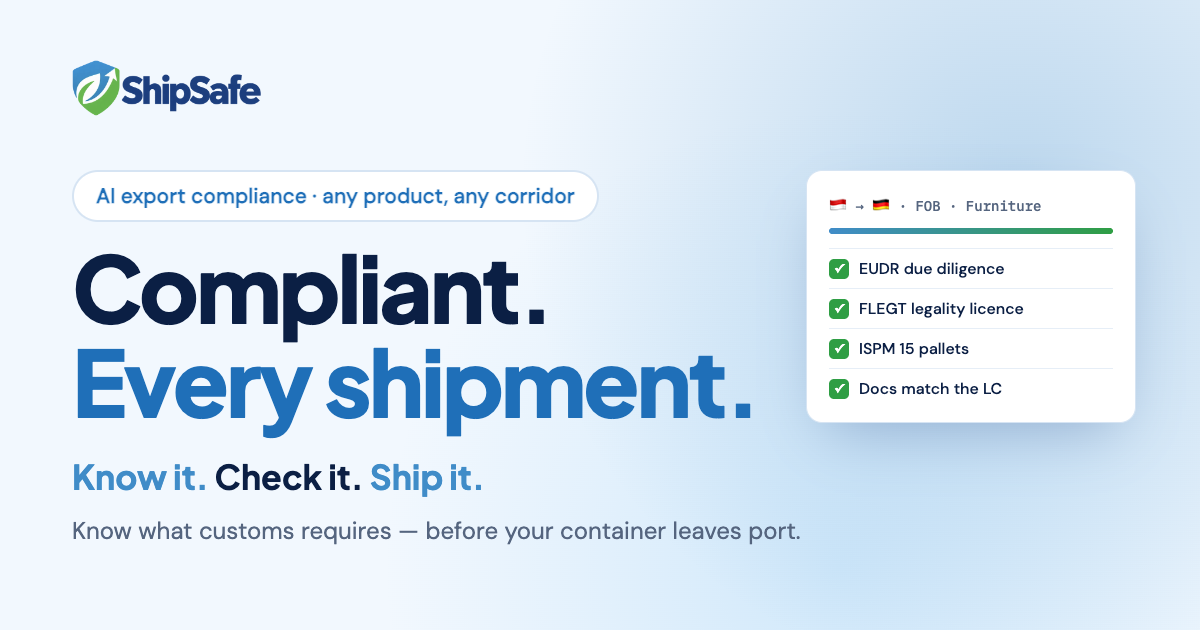
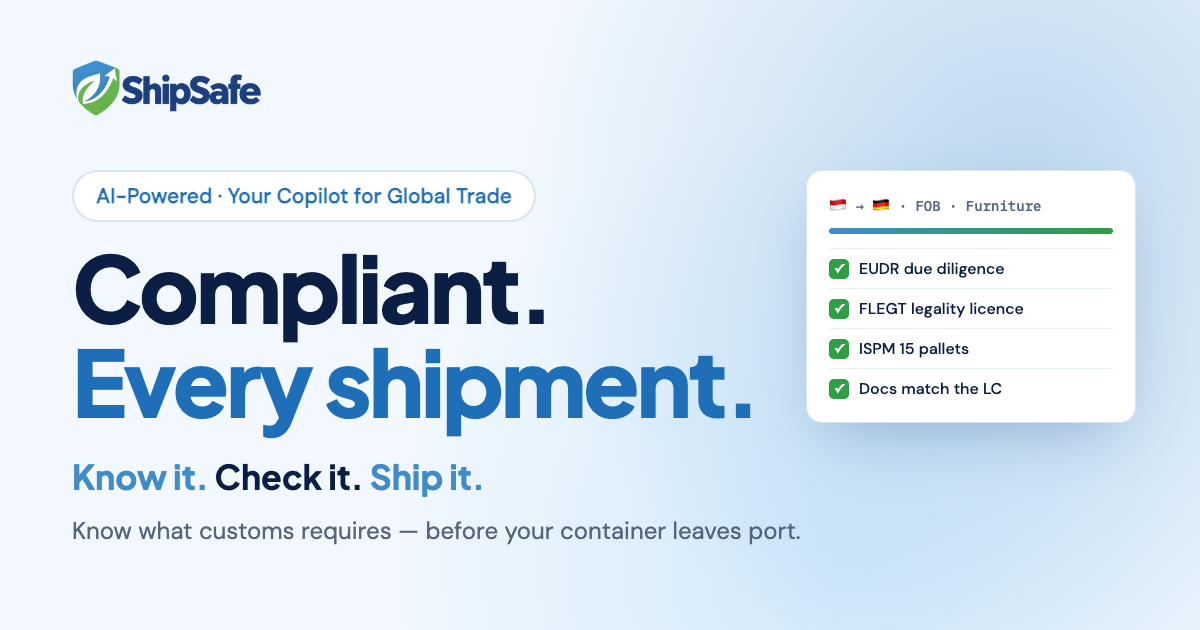
Hero badge: "AI-Powered · Your Copilot for Global Trade", drop the "New" tag

Changed region(s): [[0.0925, 0.2714, 0.4933, 0.3619]]

diff --git a/public/index.html b/public/index.html
@@ -226,7 +226,7 @@ body.lp .hd-tg{display:none}
 .hx::before{content:'';position:absolute;inset:0;background-image:linear-gradient(var(--c-line) 1px,transparent 1px),linear-gradient(90deg,var(--c-line) 1px,transparent 1px);background-size:56px 56px;mask-image:radial-gradient(ellipse 55% 70% at 75% 40%,#000,transparent 70%);-webkit-mask-image:radial-gradient(ellipse 55% 70% at 75% 40%,#000,transparent 70%);opacity:.6;pointer-events:none}
 .hx::after{content:'';position:absolute;width:640px;height:640px;right:-80px;top:50%;transform:translateY(-50%);background:radial-gradient(circle at 40% 40%,rgba(64,140,200,.28),transparent 60%),radial-gradient(circle at 70% 70%,rgba(120,190,240,.3),transparent 60%);filter:blur(20px);pointer-events:none}
 .hx-in{position:relative;z-index:1;max-width:1200px;margin:0 auto;display:grid;grid-template-columns:minmax(0,1.2fr) minmax(0,.8fr);gap:48px;align-items:center}
-.hx-pill{display:inline-flex;align-items:center;gap:10px;font-size:13.5px;font-weight:500;color:var(--c-muted);background:#fff;border:1px solid var(--c-line);border-radius:100px;padding:5px 14px 5px 5px;margin-bottom:26px;max-width:100%}
+.hx-pill{display:inline-flex;align-items:center;gap:10px;font-size:13.5px;font-weight:600;color:var(--c-acc);background:#fff;border:1px solid var(--c-line);border-radius:100px;padding:7px 16px;margin-bottom:26px;max-width:100%}
 .hx-pill b{background:var(--c-soft);color:var(--c-acc);font-weight:600;font-size:12px;border-radius:100px;padding:3px 10px;flex-shrink:0}
 .hx-h1{font-family:'Plus Jakarta Sans','DM Sans',sans-serif;font-weight:800;font-size:clamp(44px,6.2vw,80px);line-height:1.02;letter-spacing:-.04em;color:var(--c-ink);margin-bottom:22px}
 .hx-h1 em{font-style:normal;color:var(--c-acc)}
@@ -1254,7 +1254,7 @@ label{font-size:10px;letter-spacing:.3px}
   <div class="hx">
     <div class="hx-in">
       <div class="hx-copy">
-        <div class="hx-pill"><b data-i18n="hx_new">New</b><span data-i18n="hero_badge">AI export compliance · any product, any corridor</span></div>
+        <div class="hx-pill"><span data-i18n="hero_badge">AI-Powered · Your Copilot for Global Trade</span></div>
         <h1 class="hx-h1"><span data-i18n="hx_h1a">Compliant.</span><br><em data-i18n="hx_h1b">Every shipment.</em></h1>
         <p class="hx-lead" data-i18n="landing_sub">Know exactly what customs requires — certificates, tests, deadlines — and catch document errors before your bank does.</p>
         <div class="hx-ctas">
@@ -2205,9 +2205,9 @@ REGLAS DE IDIOMA:
 };
 
 // Landing section copy (overrides older keys of the same name)
-Object.assign(T.en,{nav_tara:'Tara',swipe:'Swipe for more →',p_photo:'Every container waits on its paperwork.',hx_new:'New',hero_badge:'AI export compliance · any product, any corridor',hx_h1a:'Compliant.',hx_h1b:'Every shipment.',landing_sub:'Know exactly what customs requires — certificates, tests, deadlines — and catch document errors before your bank does.',landing_cta:'Check my corridor →',hx_watch:'▶ See how it works',hx_src:'Sources we check:',hx_tara:'Ask Tara',hx_tara_q:'“FOB or CIF for this buyer?”'});
-Object.assign(T.id,{nav_tara:'Tara',swipe:'Geser untuk lainnya →',p_photo:'Setiap kontainer menunggu dokumennya.',hx_new:'Baru',hero_badge:'Kepatuhan ekspor berbasis AI · produk apa pun, rute mana pun',hx_h1a:'Patuh aturan.',hx_h1b:'Setiap pengiriman.',landing_sub:'Tahu persis syarat bea cukai — sertifikat, tes, tenggat — dan temukan kesalahan dokumen sebelum bank menemukannya.',landing_cta:'Cek rute saya →',hx_watch:'▶ Lihat cara kerjanya',hx_src:'Sumber yang kami cek:',hx_tara:'Tanya Tara',hx_tara_q:'“FOB atau CIF untuk buyer ini?”'});
-Object.assign(T.es,{nav_tara:'Tara',swipe:'Desliza para ver más →',p_photo:'Cada contenedor espera su papeleo.',hx_new:'Nuevo',hero_badge:'Cumplimiento de exportación con IA · cualquier producto, cualquier corredor',hx_h1a:'Conforme.',hx_h1b:'Cada envío.',landing_sub:'Sabe exactamente qué exige la aduana — certificados, pruebas, plazos — y detecta errores en documentos antes que tu banco.',landing_cta:'Verificar mi corredor →',hx_watch:'▶ Ver cómo funciona',hx_src:'Fuentes que revisamos:',hx_tara:'Pregúntale a Tara',hx_tara_q:'“¿FOB o CIF para este comprador?”'});
+Object.assign(T.en,{nav_tara:'Tara',swipe:'Swipe for more →',p_photo:'Every container waits on its paperwork.',hx_new:'New',hero_badge:'AI-Powered · Your Copilot for Global Trade',hx_h1a:'Compliant.',hx_h1b:'Every shipment.',landing_sub:'Know exactly what customs requires — certificates, tests, deadlines — and catch document errors before your bank does.',landing_cta:'Check my corridor →',hx_watch:'▶ See how it works',hx_src:'Sources we check:',hx_tara:'Ask Tara',hx_tara_q:'“FOB or CIF for this buyer?”'});
+Object.assign(T.id,{nav_tara:'Tara',swipe:'Geser untuk lainnya →',p_photo:'Setiap kontainer menunggu dokumennya.',hx_new:'Baru',hero_badge:'Berbasis AI · Copilot Anda untuk Perdagangan Global',hx_h1a:'Patuh aturan.',hx_h1b:'Setiap pengiriman.',landing_sub:'Tahu persis syarat bea cukai — sertifikat, tes, tenggat — dan temukan kesalahan dokumen sebelum bank menemukannya.',landing_cta:'Cek rute saya →',hx_watch:'▶ Lihat cara kerjanya',hx_src:'Sumber yang kami cek:',hx_tara:'Tanya Tara',hx_tara_q:'“FOB atau CIF untuk buyer ini?”'});
+Object.assign(T.es,{nav_tara:'Tara',swipe:'Desliza para ver más →',p_photo:'Cada contenedor espera su papeleo.',hx_new:'Nuevo',hero_badge:'Con IA · Tu copiloto para el comercio global',hx_h1a:'Conforme.',hx_h1b:'Cada envío.',landing_sub:'Sabe exactamente qué exige la aduana — certificados, pruebas, plazos — y detecta errores en documentos antes que tu banco.',landing_cta:'Verificar mi corredor →',hx_watch:'▶ Ver cómo funciona',hx_src:'Fuentes que revisamos:',hx_tara:'Pregúntale a Tara',hx_tara_q:'“¿FOB o CIF para este comprador?”'});
 Object.assign(T.en,{as_tag:'Built in',as_cap:'Help the moment you\'re stuck',as_h2:'Your compliance expert, <span>on call.</span>',as_lead:'Ask Tara anything in plain language, or look up any rule in the trade glossary — right inside ShipSafe.',as_try:'Try a question',as_note:'Sample answers. In the app, Tara answers your exact case.',as_tara_cta:'Ask Tara your own question →',as_gl_title:'Trade Glossary',as_gl_terms:'terms, explained',as_gl_ph:'Search a term — e.g. FOB, Art. 14, D/P',as_gl_all:'All',as_gl_none:'No matching term — try FOB, CIF or "Art. 14".',as_gl_note:'Incoterms® 2020 · UCP 600 · ISBP 745 · URC 522 · URDG 758',as_gl_cta:'Open the full glossary →',as_ft_tara:'Tara — AI assistant'});
 Object.assign(T.id,{as_tag:'Sudah termasuk',as_cap:'Bantuan saat kamu bingung',as_h2:'Ahli kepatuhanmu, <span>siap kapan saja.</span>',as_lead:'Tanya Tara apa saja dengan bahasa sehari-hari, atau cari aturan apa pun di glosarium perdagangan — langsung di ShipSafe.',as_try:'Coba tanya',as_note:'Contoh jawaban. Di app, Tara menjawab kasusmu secara spesifik.',as_tara_cta:'Tanya Tara pertanyaanmu →',as_gl_title:'Glosarium Perdagangan',as_gl_terms:'istilah dijelaskan',as_gl_ph:'Cari istilah — mis. FOB, Art. 14, D/P',as_gl_all:'Semua',as_gl_none:'Istilah tidak ditemukan — coba FOB, CIF atau "Art. 14".',as_gl_note:'Incoterms® 2020 · UCP 600 · ISBP 745 · URC 522 · URDG 758',as_gl_cta:'Buka glosarium lengkap →',as_ft_tara:'Tara — asisten AI'});
 Object.assign(T.es,{as_tag:'Incluido',as_cap:'Ayuda justo cuando la necesitas',as_h2:'Tu experto en cumplimiento, <span>siempre disponible.</span>',as_lead:'Pregúntale a Tara lo que sea en lenguaje sencillo, o busca cualquier regla en el glosario comercial — dentro de ShipSafe.',as_try:'Prueba una pregunta',as_note:'Respuestas de ejemplo. En la app, Tara responde tu caso exacto.',as_tara_cta:'Pregúntale a Tara →',as_gl_title:'Glosario Comercial',as_gl_terms:'términos explicados',as_gl_ph:'Busca un término — ej. FOB, Art. 14, D/P',as_gl_all:'Todos',as_gl_none:'Sin resultados — prueba FOB, CIF o "Art. 14".',as_gl_note:'Incoterms® 2020 · UCP 600 · ISBP 745 · URC 522 · URDG 758',as_gl_cta:'Abrir el glosario completo →',as_ft_tara:'Tara — asistente IA'});

diff --git a/video/og.html b/video/og.html
@@ -24,7 +24,7 @@ h1 span{color:#1F6FB8}
 </head>
 <body>
   <img class="logo" src="../public/logo-light.png" alt="">
-  <div class="badge">AI export compliance · any product, any corridor</div>
+  <div class="badge">AI-Powered · Your Copilot for Global Trade</div>
   <h1>Compliant.<br><span>Every shipment.</span></h1>
   <div class="slogan">Know it. <b>Check it.</b> Ship it.</div>
   <div class="sub">Know what customs requires — before your container leaves port.</div>
